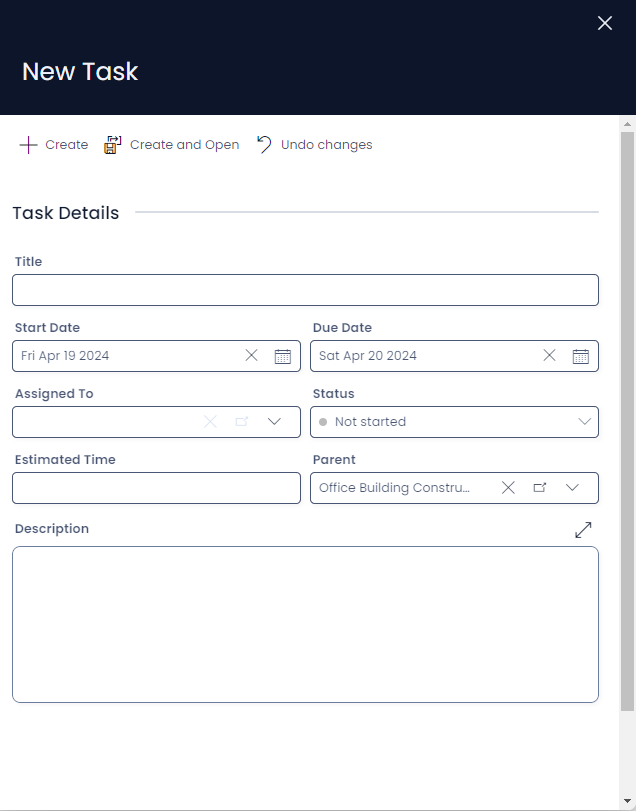
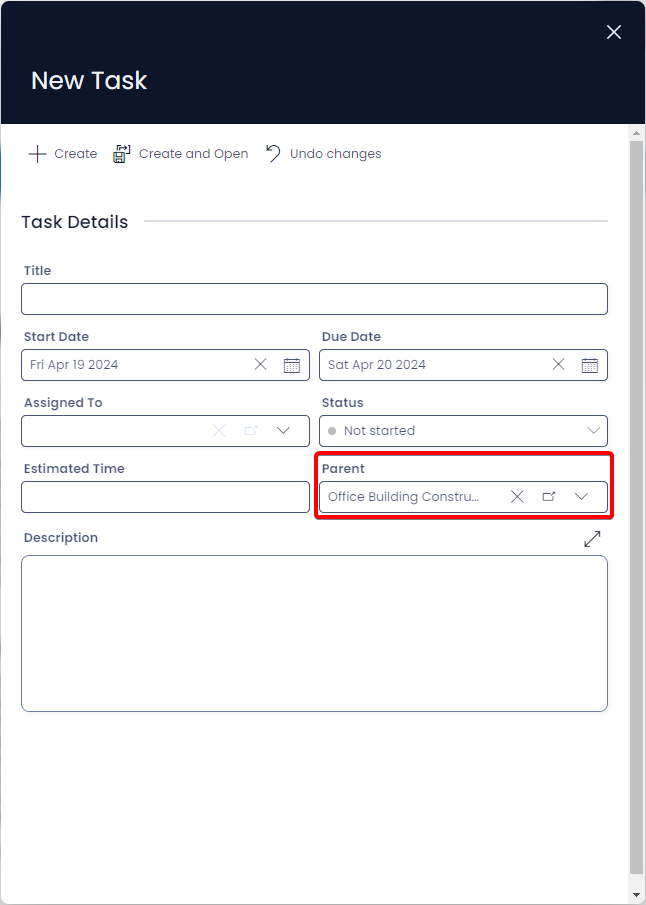
Done!

diff --git a/docs/Rapid/3-User Manual/2-Explorer/3-Pages/2-Page Components/file-browser/2-file-browser-command-bar/2-file-browser-command-bar.md b/docs/Rapid/3-User Manual/2-Explorer/3-Pages/2-Page Components/file-browser/2-file-browser-command-bar/2-file-browser-command-bar.md
@@ -112,7 +112,13 @@ Selecting a folder in the **File Browser** and then pressing the **E-mail Files*
 
 ## Deleting Files
 
-TODO
+Deleting files using the **Files Browser** component will delete them from *Sharepoint* as well. To delete a file or files:
+
+1. Select the file(s) you wish to delete
+
+2. Press the **Delete** button in the **Command Bar**
+
+![A screenshot demonstrating the appearance of the "Delete" button in the Command Bar. The screenshot is annotated with a red box to show the button's location. The button is red and says "Delete". It also has a red icon of a trash can.](<Files Delete.png>)
 
 ## Creating A Task with Attachments
 
@@ -126,7 +132,11 @@ Sometimes you may wish to create a new [Task](</docs/Rapid/3-User Manual/2-Explo
 
 3. The "New Task" **Create Screen** will open on the right side of the site
 
-![Alt text](<Files New Task.png>)
+![A screenshot of the new tasks screen. tasks is empty, aside from some pre-filled date data and the parent field now containing the name of the item where the files are being stored. The ](<Files New Task.png>)
+
+:::info[Task Parent]
+Creating a **Task** this way will cause Rapid to fill the *Parent* field with a lookup link to the current item where the files are located. In this example, the files that are being used to generate a task are located inside an project item titled "Office Building Construction". Once the new Task is created, it will also link back to this item.
+:::
 
 4. Fill out the **Task** information and details as desired
 
@@ -135,13 +145,7 @@ Sometimes you may wish to create a new [Task](</docs/Rapid/3-User Manual/2-Explo
 6. The task will now be generated, and the selected files will appear as *Attachments* in the **Files** tab of the Task item, or in the **Attachments** component of the item.
 
 :::notes[Task Files]
-If the files do not appear on a **Task**, this might be because your System Administrator has not added a page component to the *Tasks* page for viewing files.
-:::
-
-![Alt text](<Files Task Parent.png>)
-
-:::info[Task Parent]
-Creating a **Task** this way will cause Rapid to fill the *Parent* field with a lookup link to the current item where the files are located. In this example, the files that are being used to generate a task are located inside an project item titled "Office Building Construction". Once the new Task is created, it will also link back to this item.
+If the files do not appear on a **Task**, this might be because your System Administrator has not added a page component to the *Tasks* page for viewing files. To view the files, you can use the *Parent* field to navigate back to the item where the files are stored.
 :::
 
 ## Opening Files
@@ -154,12 +158,73 @@ Files can be opened by [downloading the files](</docs/Rapid/3-User Manual/2-Expl
 
 ### Opening Files in Sharepoint
 
+You can also open the *Sharepoint* folder that stores an item's files. This is useful if you wish to move files to a different location in your *Sharepoint* directory.
+
+1. Press the **Open in Sharepoint** button on the **Command Bar**. Its icon is the Microsoft Sharepoint logo (several spheres with an S emblazoned over them).
+
+![A screenshot demonstrating the location of the "Open in Sharepoint" button in the Command Bar. The screenshot is annotated with a red box to highlight the button's location. The icon of the button resembles three circles grouped together, with a dark square badge on top, and an S label on the badge.](<Files Sharepoint Button.png>)
+
+2. In a new browser tab, *Sharepoint* will open.
+
+![A screenshot of a browser tab displaying the Sharepoint website. Inside the website are the files that were displayed on the Rapid site. Note that several sections of this image have had names or other private information blurred out. The purpose of this image is to show that files attached to a Rapid item can be accessed and used in Microsoft Sharepoint.](<Files Sharepoint Opened.png>)
+
+You can now view your files directly in Microsoft *Sharepoint*.
+
+- You can also read more about <a href="https://support.office.com/en-us/article/what-is-a-document-library-3b5976dd-65cf-4c9e-bf5a-713c10ca2872">the functionality of Microsoft Sharepoint</a> on their website.
+
+## Navigating Sharepoint Folders
+
+In both Microsoft *Sharepoint* and the **File Browser** component, a breadcrumbs component allows the user to navigate to other folders within the *Sharepoint* directory.
+
+:::notes[Example]
+A user may wish to view not just the files of this particular project, but to quickly navigate and find files in other projects without leaving the current web page. Using breadcrumbs is a fast way to achieve this.
+:::
+
+To navigate to a different folder, the user can click on any of the previous breadcrumbs in the site by clicking their name in the breadcrumb trail.
+
+![A screenshot of the breadcrumbs section of the Jumbotron. The screenshot is annotated with a red box to highlight the series of links know as "breadcrumbs". The series of links reads: "Projects > Office Building Construction". The words "Officer Building Construction" are bold, an annotation explains that this is the current page name (item) and represents the current page being viewed. These words do not act as a hyperlink, as they are the current page. The word "Projects" is written in regular text. An annotation explains that the is the previous page name (for a table) and represents the table where the item is stored. Clicking this word would cause the user to be navigated back to the table.](<Breadcrumbs Explained.png>)
+
+:::note[Terminology]
+The term "Breadcrumbs" comes from the fairytale *Hansel and Gretel* collected by the Brothers Grimm. In the story, the two children leave breadcrumbs behind them to find their way home. In web design, this term has come to mean a series of links that allow you to return to previous webpages that you have visited. Essentially, this type of component allows you to "retrace your steps".
+:::
+
 ## Changing Folder
 
+You may decide to change which folder stores the files for a particular item. This could be because you wish for two different items to point to the same *Sharepoint* folder, or there is an existing folder that you want the item to point to.
+
+The **Files Browser** component allows users to change the *Sharepoint* folder that is attached to a Rapid item.
+
+1. Press the **Change Folder** button in the **Command Bar**
+
+![A screenshot demonstrating the location of the "Change Folder" button in the Command Bar. The screenshot is annotated with a red box to highlight the location of the button. The button has an icon of a folder, with an arrow pointing inside the folder.](<Files Change Folder.png>)
+
+2. Rapid will open a list of all the storage locations linked to your Rapid site. For instance, in this example there are two main storage locations: *Internal* and *Marketing*.
+
+![A screenshot demonstrating how the storage locations appear in Rapid when changing them. The command bar now only has a single button that reads "Select Current Folder". Beneath it are two drop down menus: "Internal (1)" and "Marketing (1)". The number symbolises the different sub directories inside these storage locations.](<Files Change Folder Accordians.png>)
+
+3. Select the directory.
+
+4. Choose a sub-directory. For many simple sites, there will only be a "Documents" button here.
+
+![A screenshot that demonstrates what the "Documents" button looks like inside the dropdown menu. The button is blue and simply states "Documents". The user's mouse cursor is hovering over the corner of the button.](<Files Change Internal.png>)
+
+5. Navigate through the folder directory that appears, and find the folder you wish to point the current item towards. **Note:** double-clicking on a folder opens it.
+
+![A screenshot of the folder directory that appears after choosing a storage location. The section is titled "root", meaning it the root or base directory folder, and all other folders sit below it. There are a variety of folders in the view. The purpose of the image is to demonstrate that the entire document storage of a site can be accessed this way.](<Files Storage List.png>)
+
+6. Press the **Select Current Folder** button in the **Command Bar** to set the current folder view to be your new document storage folder.
+
+![A screenshot demonstrating the location of the "Select Current Folder" button in the Command Bar. The screenshot is annotated with a red box to indicate the button's location. The button contains an icon of a floppy disk.](<Files Folder Select.png>)
+
+:::notes[Careful]
+This means that whatever is visible inside the **File Browser** component when you press **Select Current Folder** will be exactly the files and section of the *Sharepoint* directory you will see each time the item is opened.
+:::
 
 ## Sharing
 
+At the time of writing, the **Share** button performs identically to the **Email Files** button.
 
+- You can revisit the [**Email Files** button functionality here](</docs/Rapid/3-User Manual/2-Explorer/3-Pages/2-Page Components/File-Browser/2-File-Browser-Command-Bar/2-File-Browser-Command-Bar.md#emailing-files>).
 
 ## Additional File Components
 
@@ -168,5 +233,3 @@ Rapid Platform has several additional components that are useful for storing and
 - <a href="https://rapiddocs.z8.web.core.windows.net/docs/Rapid/User%20Manual/Explorer/Pages/Page%20Components/File%20Preview%20Component" target="_blank">File Preview</a>
 - <a href="https://rapiddocs.z8.web.core.windows.net/docs/Rapid/User%20Manual/Explorer/Pages/Page%20Components/Attachments">Attachments</a>
 - <a href="https://rapiddocs.z8.web.core.windows.net/docs/Rapid/User%20Manual/Explorer/Pages/Page%20Components/Embedded%20Files">Embedded Files</a>
-
-You can also read more about <a href="https://support.office.com/en-us/article/what-is-a-document-library-3b5976dd-65cf-4c9e-bf5a-713c10ca2872">the functionality of Microsoft Sharepoint</a> on their website.

diff --git a/docs/Rapid/3-User Manual/2-Explorer/0-navigating-explorer/0-navigating-explorer.md b/docs/Rapid/3-User Manual/2-Explorer/0-navigating-explorer/0-navigating-explorer.md
@@ -20,7 +20,7 @@ The Jumbotron displays the current Page's title, as well as a series of *Breadcr
 The term "Breadcrumbs" comes from the fairytale *Hansel and Gretel* collected by the Brothers Grimm. In the story, the two children leave breadcrumbs behind them to find their way home. In web design, this term has come to mean a series of links that allow you to return to previous webpages that you have visited. Essentially, this type of component allows you to "retrace your steps".
 :::
 
-![Alt text](<Jumbotron Breadcrumbs.png>)
+![A screenshot of the breadcrumbs section of the Jumbotron. The screenshot is annotated with a red box to highlight the series of links know as "breadcrumbs". The series of links reads: "Projects > Office Building Construction". The words "Officer Building Construction" are bold, an annotation explains that this is the current page name (item) and represents the current page being viewed. These words do not act as a hyperlink, as they are the current page. The word "Projects" is written in regular text. An annotation explains that the is the previous page name (for a table) and represents the table where the item is stored. Clicking this word would cause the user to be navigated back to the table.](<Jumbotron Breadcrumbs.png>)
 
 The current page will be rendered in the *Breadcrumbs* as bold text, and cannot be clicked. Previous pages, however, will be rendered as regular text, and can be clicked on.
 
